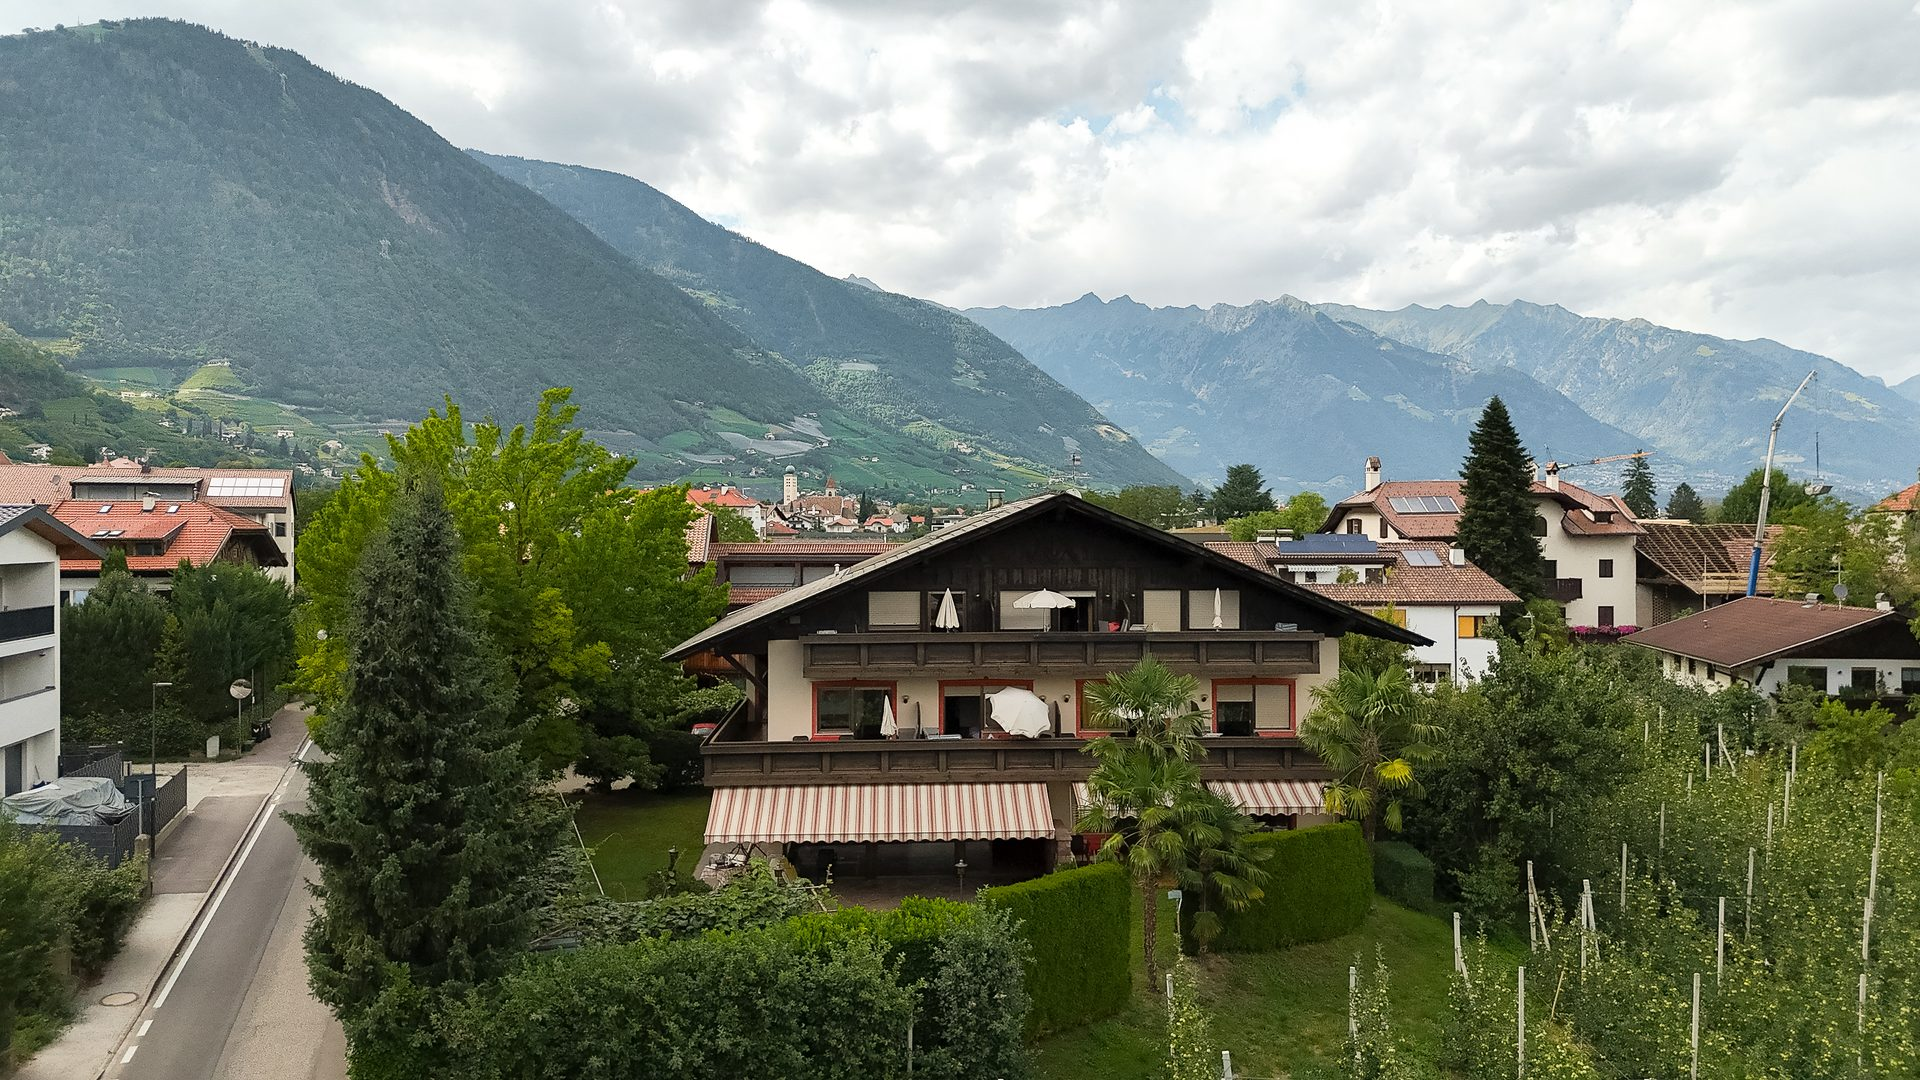
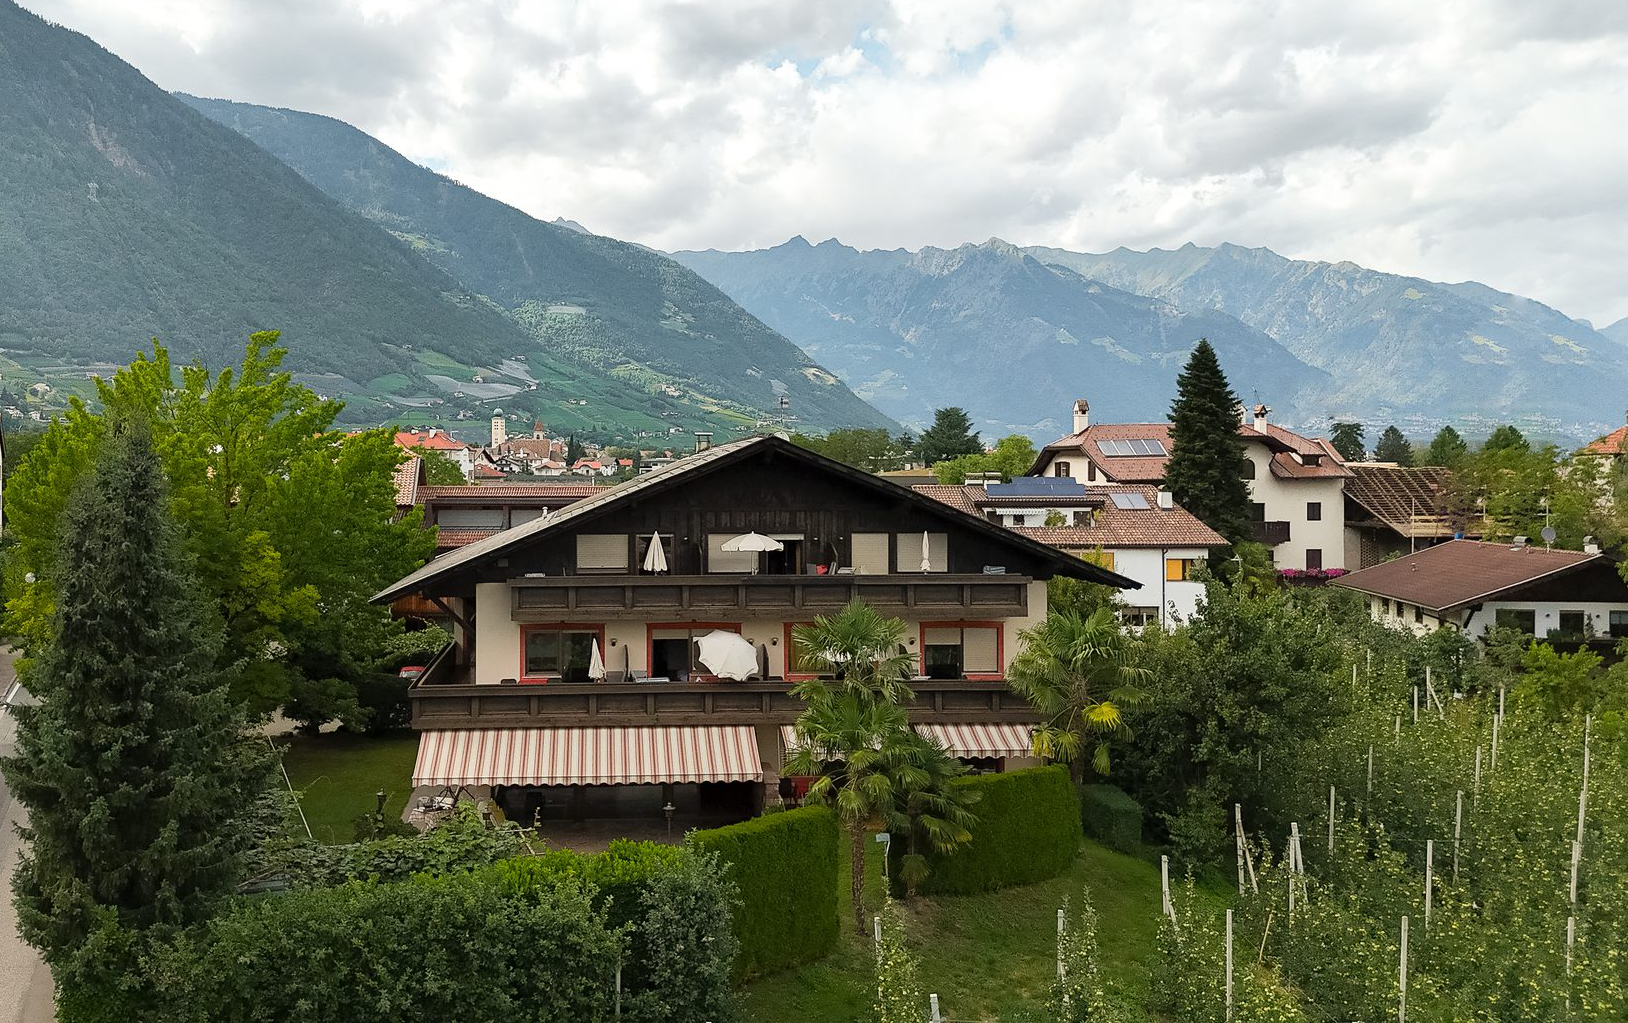
Hero-Bild bearbeitet und Referenz aktualisiert

diff --git a/index.html b/index.html
@@ -31,7 +31,7 @@ Feyerlin Apartments
 </header>
 
 <section class="hero">
-<img src="images/hero-mountains-nocrane.jpg" alt="Bergpanorama bei Lana">
+<img src="images/hero-mountains.jpg" alt="Bergpanorama bei Lana">
 <div class="hero-content">
 <h1>Feyerlin Apartments</h1>
 <a href="buchungsanfrage.html" class="btn">Jetzt Buchen</a>
